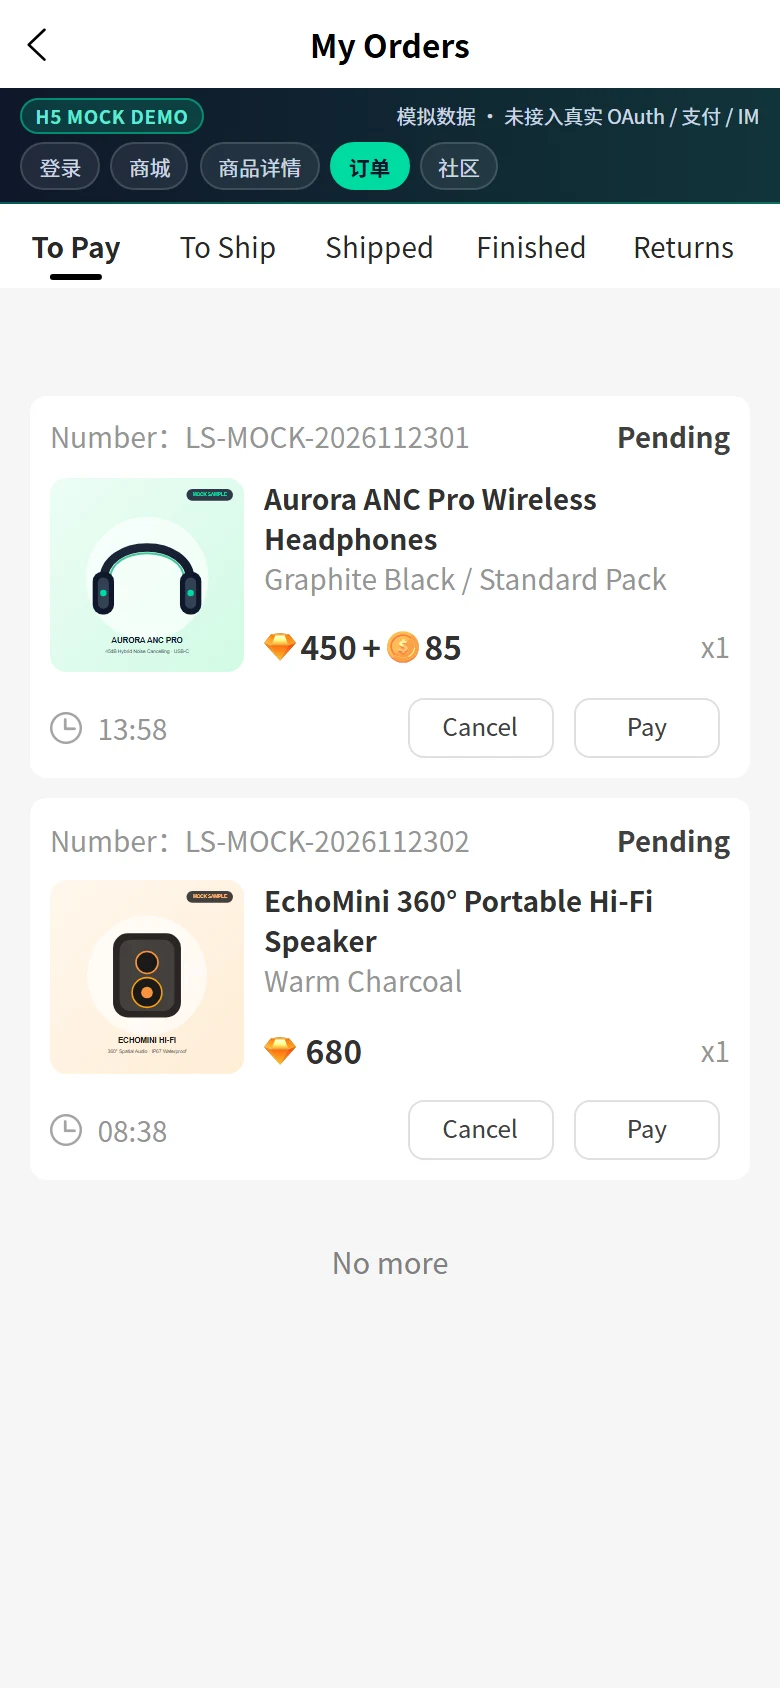
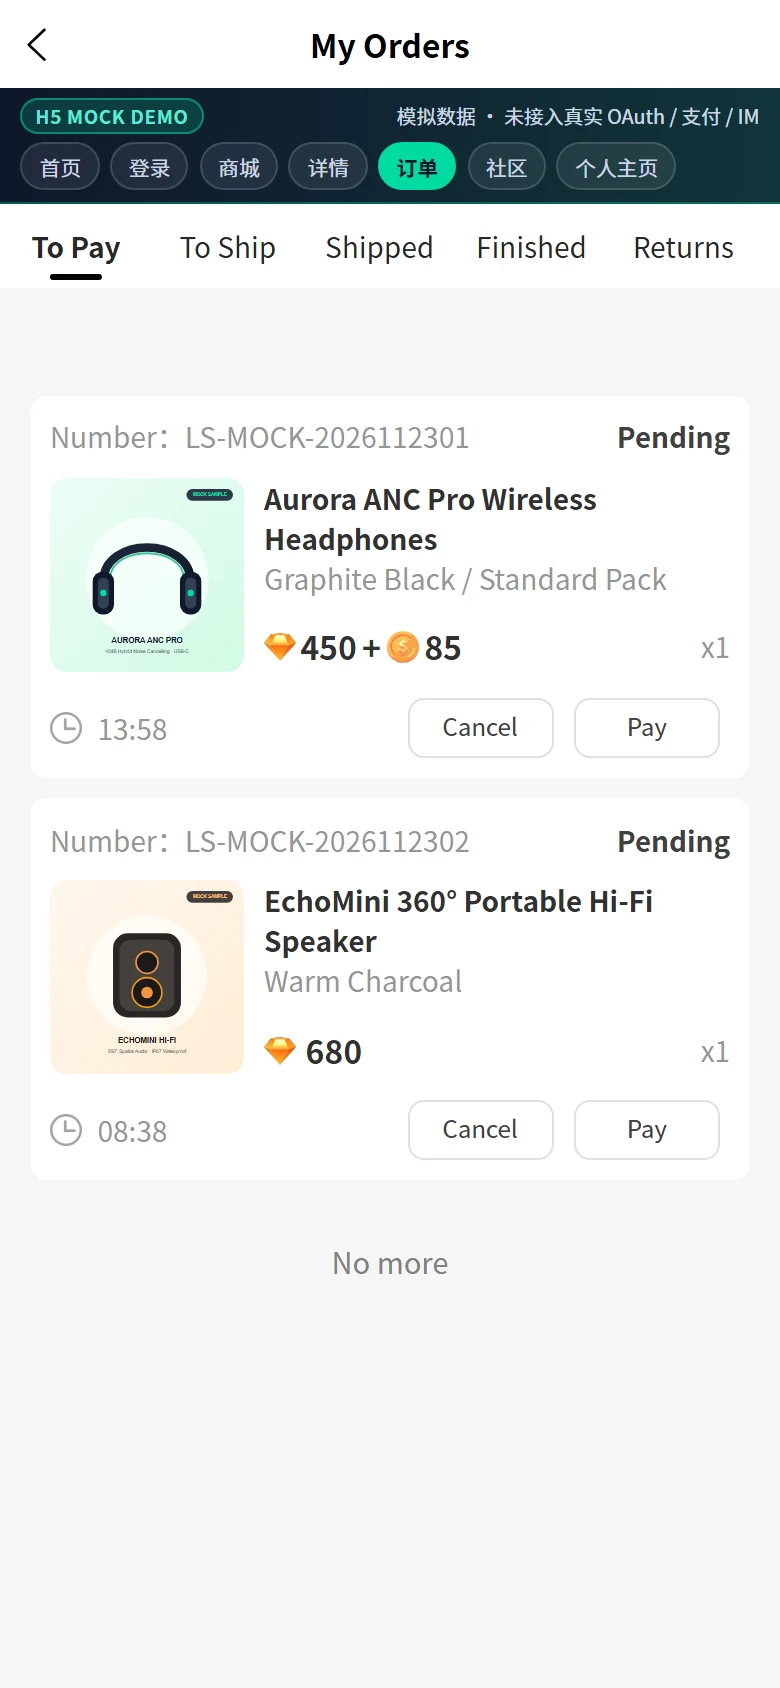
feat(work): add Home discovery and Person Profile screenshots to /projects/liveshop/ (7 App screens)

diff --git a/src/work/workData.ts b/src/work/workData.ts
@@ -52,9 +52,9 @@ export const workOverviewStats = [
     detail: '覆盖微信原生小程序、复杂中后台与微前端数据平台',
   },
   {
-    value: '18 张实拍 + 2 段录屏',
+    value: '20 张实拍 + 2 段录屏',
     label: '真机脱敏、H5 演示与历史后台证据',
-    detail: '含真机支付分录屏、LiveShop 5 屏 App 演示与 51 秒后台录屏',
+    detail: '含真机支付分录屏、LiveShop 7 屏 App 演示与 51 秒后台录屏',
   },
   {
     value: '100% 边界可核验',
@@ -472,7 +472,7 @@ export const liveshopCase = {
   period: '2023.08 — 2025.05',
   title: 'LiveShop 海外社交电商 · uni-app 客户端与运营管理后台',
   subtitle:
-    '面向海外用户的「社区内容 + 活动预约 + 跨境商品」社交电商体系：移动端基于 uni-app（Vue 3 + TS）交付登录、社区、商城、商品详情与订单主流程；后台基于 Vue 3 + Naive UI 承载多角色菜单权限、商品规格、运营活动与订单履约。',
+    '面向海外用户的「首页发现 + 个人主页 + 社区内容 + 跨境商品」社交电商体系：移动端基于 uni-app（Vue 3 + TS）交付首页、个人主页、登录、社区、商城、商品详情与订单主流程；后台基于 Vue 3 + Naive UI 承载多角色菜单权限、商品规格、运营活动与订单履约。',
   positioning:
     'LiveShop 将海外内容社区与商品兑换/交易结合：运营后台配置商品、规格、广告位、预约活动与订单状态，App 端承接海外第三方登录、社区互动、商品选购与多状态订单查询。',
   stack: [
@@ -517,12 +517,34 @@ export const liveshopCase = {
     },
   ],
   appEvidenceNote:
-    '以下 5 张移动端界面均由原始 app-live-shop（uni-app Vue 3）源码在本地补齐最小 H5 平台守卫与 Mock 拦截层后，于 390×844 真实浏览器视口运行截取。界面数据为本地合成样本，未连接原公司生产服务，不产生真实 OAuth、支付扣款或 IM 通信。',
+    '以下 7 张移动端界面均由原始 app-live-shop（uni-app Vue 3）源码在本地补齐最小 H5 平台守卫与 Mock 拦截层后，于 390×844 真实浏览器视口运行截取。界面数据为本地合成样本，未连接原公司生产服务，不产生真实 OAuth、支付扣款或 IM 通信。',
   appEvidence: [
+    {
+      id: 'liveshop-app-home',
+      title: '首页发现流与创作者推荐',
+      tag: '01 首页 · /pages/index',
+      src: publicAsset('evidence/liveshop/app-home.webp'),
+      alt: 'LiveShop uni-app H5 390px 首页截图，展示搜索筛选栏、横向在线用户头像栏与创作者推荐卡片',
+      caption:
+        '整合搜索入口与筛选弹窗（FilterPopup）、横向活跃用户头像栏（UserList）及创作者推荐大卡（RecommendCard），支持在线态、认证标、相册/动态计数与一键进入个人主页；打招呼按钮受网易云信 IM 边界约束在 H5 显式提示。',
+      provenance: '原始 uni-app 源码 H5 视图 · 本地 Mock 数据',
+      aspect: 'phone',
+    },
+    {
+      id: 'liveshop-app-person',
+      title: '用户个人主页与相册/动态双栏',
+      tag: '02 个人主页 · /pages/person-page',
+      src: publicAsset('evidence/liveshop/app-person.webp'),
+      alt: 'LiveShop uni-app H5 390px 个人主页截图，展示顶部背景、头像、在线状态、关注按钮、粉丝统计及 Photos 九宫格',
+      caption:
+        '同时兼容「本人主页（Edit Profile + 相册上传）」与「他人主页（Follow/Followed 切换）」，支持吸顶紧凑头栏、关注/粉丝统计与 Photos / Updates 双 Tab 切换。',
+      provenance: '原始 uni-app 源码 H5 视图 · 本地 Mock 数据',
+      aspect: 'phone',
+    },
     {
       id: 'liveshop-app-login',
       title: '海外第三方登录入口',
-      tag: '01 登录页 · /pages/login',
+      tag: '03 登录页 · /pages/login',
       src: publicAsset('evidence/liveshop/app-login.webp'),
       alt: 'LiveShop uni-app H5 390px 登录页截图，展示品牌视觉、Google 与 X 登录按钮以及 H5 Mock 演示横幅',
       caption:
@@ -531,9 +553,20 @@ export const liveshopCase = {
       aspect: 'phone',
     },
     {
+      id: 'liveshop-app-community',
+      title: '海外社交动态流与预约活动',
+      tag: '04 社区页 · /pages/community',
+      src: publicAsset('evidence/liveshop/app-community.webp'),
+      alt: 'LiveShop uni-app H5 390px 社区页截图，展示活动广告轮播、拼团/众筹预约卡片、Recommend/Follow 切换与图文动态',
+      caption:
+        '整合广告位轮播（SwiperAd）、后台下发的拼团/众筹预约活动卡片，以及 Recommend / Follow 双流图文动态与本地点赞状态联动。',
+      provenance: '原始 uni-app 源码 H5 视图 · 本地 Mock 数据',
+      aspect: 'phone',
+    },
+    {
       id: 'liveshop-app-shop',
       title: '商城类目与商品列表',
-      tag: '02 商城页 · /pages/shop',
+      tag: '05 商城页 · /pages/shop',
       src: publicAsset('evidence/liveshop/app-shop.webp'),
       alt: 'LiveShop uni-app H5 390px 商城页截图，展示用户头部、快捷入口、商品类目 Tab 与双列商品卡片',
       caption:
@@ -544,7 +577,7 @@ export const liveshopCase = {
     {
       id: 'liveshop-app-detail',
       title: '商品详情、SKU 规格与地址联动',
-      tag: '03 商品详情 · /pages/shopDetail',
+      tag: '06 商品详情 · /pages/shopDetail',
       src: publicAsset('evidence/liveshop/app-detail.webp'),
       alt: 'LiveShop uni-app H5 390px 商品详情页截图，展示商品轮播图、价格、规格选择行、海外地址与商品介绍',
       caption:
@@ -555,22 +588,11 @@ export const liveshopCase = {
     {
       id: 'liveshop-app-order',
       title: '五态订单列表与待支付倒计时',
-      tag: '04 订单页 · /pages/order',
+      tag: '07 订单页 · /pages/order',
       src: publicAsset('evidence/liveshop/app-order.webp'),
       alt: 'LiveShop uni-app H5 390px 我的订单页截图，展示 To Pay/To Ship/Shipped/Finished/Returns 五个状态标签、待支付倒计时与取消按钮',
       caption:
         '覆盖 To Pay / To Ship / Shipped / Finished / Returns 完整状态分栏，待支付卡片内置倒计时与取消防抖交互，与运营后台订单状态流转形成前后呼应。',
-      provenance: '原始 uni-app 源码 H5 视图 · 本地 Mock 数据',
-      aspect: 'phone',
-    },
-    {
-      id: 'liveshop-app-community',
-      title: '海外社交动态流与预约活动',
-      tag: '05 社区页 · /pages/community',
-      src: publicAsset('evidence/liveshop/app-community.webp'),
-      alt: 'LiveShop uni-app H5 390px 社区页截图，展示活动广告轮播、拼团/众筹预约卡片、Recommend/Follow 切换与图文动态',
-      caption:
-        '整合广告位轮播（SwiperAd）、后台下发的拼团/众筹预约活动卡片，以及 Recommend / Follow 双流图文动态与本地点赞状态联动。',
       provenance: '原始 uni-app 源码 H5 视图 · 本地 Mock 数据',
       aspect: 'phone',
     },
@@ -602,7 +624,7 @@ export const liveshopCase = {
     ledItems: [
       'App 端：海外第三方登录（Google 原生登录、X 系统浏览器 OAuth 与 onShow 回跳参数解析）',
       'App 端：海外支付与原生能力集成（PayPal 建单/Capture 闭环、Google Play 内购原生插件接入、iOS/Android 定位三态权限与系统设置跳转）',
-      'App 端：社区动态流、商城/商品详情规格选择、五态订单列表与个人中心主流程前端交付',
+      'App 端：首页发现流、个人主页（相册/动态/关注）、社区动态流、商城/商品详情规格选择、五态订单列表与个人中心主流程前端交付',
       '运营后台：参与 Vue 3 + TypeScript + Pinia + Naive UI 订单、商品、活动及权限菜单前端联调与本地演示接口盘点',
     ],
     collabTitle: '团队协作与真实边界（不包装为个人独立开发）',
@@ -628,7 +650,7 @@ export const liveshopCase = {
   ] satisfies EvidenceMedia[],
   contractMetrics: [
     { value: '109 / 109', label: 'TypeScript AST 盘点后台唯一接口', detail: '覆盖订单、商品规格、运营统计与权限菜单' },
-    { value: '4 核心流程 · 5 屏', label: 'uni-app H5 Mock 实测恢复', detail: '登录、商城、详情、订单、社区零报错通过 390px 验收' },
+    { value: '7 屏核心界面', label: 'uni-app H5 Mock 实测恢复', detail: '首页、个人主页、登录、社区、商城、详情、订单零报错通过 390px 验收' },
     { value: '双端原生兜底', label: 'X OAuth + Play IAP + 定位跳转', detail: 'onShow 解析启动参数，永久拒绝按平台直达系统设置' },
   ],
   decisions: [

diff --git a/src/work/components/LiveshopCaseSection.vue b/src/work/components/LiveshopCaseSection.vue
@@ -57,7 +57,7 @@ function openGallery(list: EvidenceMedia[], startIndex: number, event: MouseEven
               :class="{ 'is-active': activeView === 'app' }"
               @click="activeView = 'app'"
             >
-              uni-app 客户端（5 屏 H5 演示）
+              uni-app 客户端（7 屏 H5 演示）
             </button>
             <button
               type="button"
@@ -103,8 +103,8 @@ function openGallery(list: EvidenceMedia[], startIndex: number, event: MouseEven
       <section v-if="activeView !== 'admin'" class="glass-panel app-stage" aria-label="uni-app 客户端核心页面截图">
         <div class="stage-head">
           <div>
-            <span class="eyebrow">UNI-APP CLIENT · 4 CORE FLOWS (5 SCREENS · H5 MOCK)</span>
-            <h3 class="stage-title">uni-app 移动端核心界面 · 登录、商城、详情、订单与社区</h3>
+            <span class="eyebrow">UNI-APP CLIENT · 7 CORE SCREENS · H5 MOCK</span>
+            <h3 class="stage-title">uni-app 移动端核心界面 · 首页、个人主页、登录、社区与电商订单</h3>
           </div>
           <span class="badge badge-amber">H5 Mock 演示 · 非线上真实数据</span>
         </div>
@@ -445,8 +445,8 @@ function openGallery(list: EvidenceMedia[], startIndex: number, event: MouseEven
 
 .phone-gallery {
   display: grid;
-  grid-template-columns: repeat(5, minmax(0, 1fr));
-  gap: 14px;
+  grid-template-columns: repeat(4, minmax(0, 1fr));
+  gap: 16px;
 }
 
 .phone-card {

diff --git a/src/work/WorkApp.vue b/src/work/WorkApp.vue
@@ -134,7 +134,7 @@ const dockCards: {
     tier: '双端电商案例',
     title: 'LiveShop 海外社交电商',
     summary: 'uni-app 海外社区/电商/订单 App + Vue 3 运营后台双端联动 · X OAuth 与 PayPal/Google Play 接入',
-    proof: '5 张 App 界面（H5 Mock）· 后台订单图 · 双端关系图 · 109 API',
+    proof: '7 张 App 界面（H5 Mock）· 后台订单图 · 双端关系图 · 109 API',
   },
 ]
 </script>
